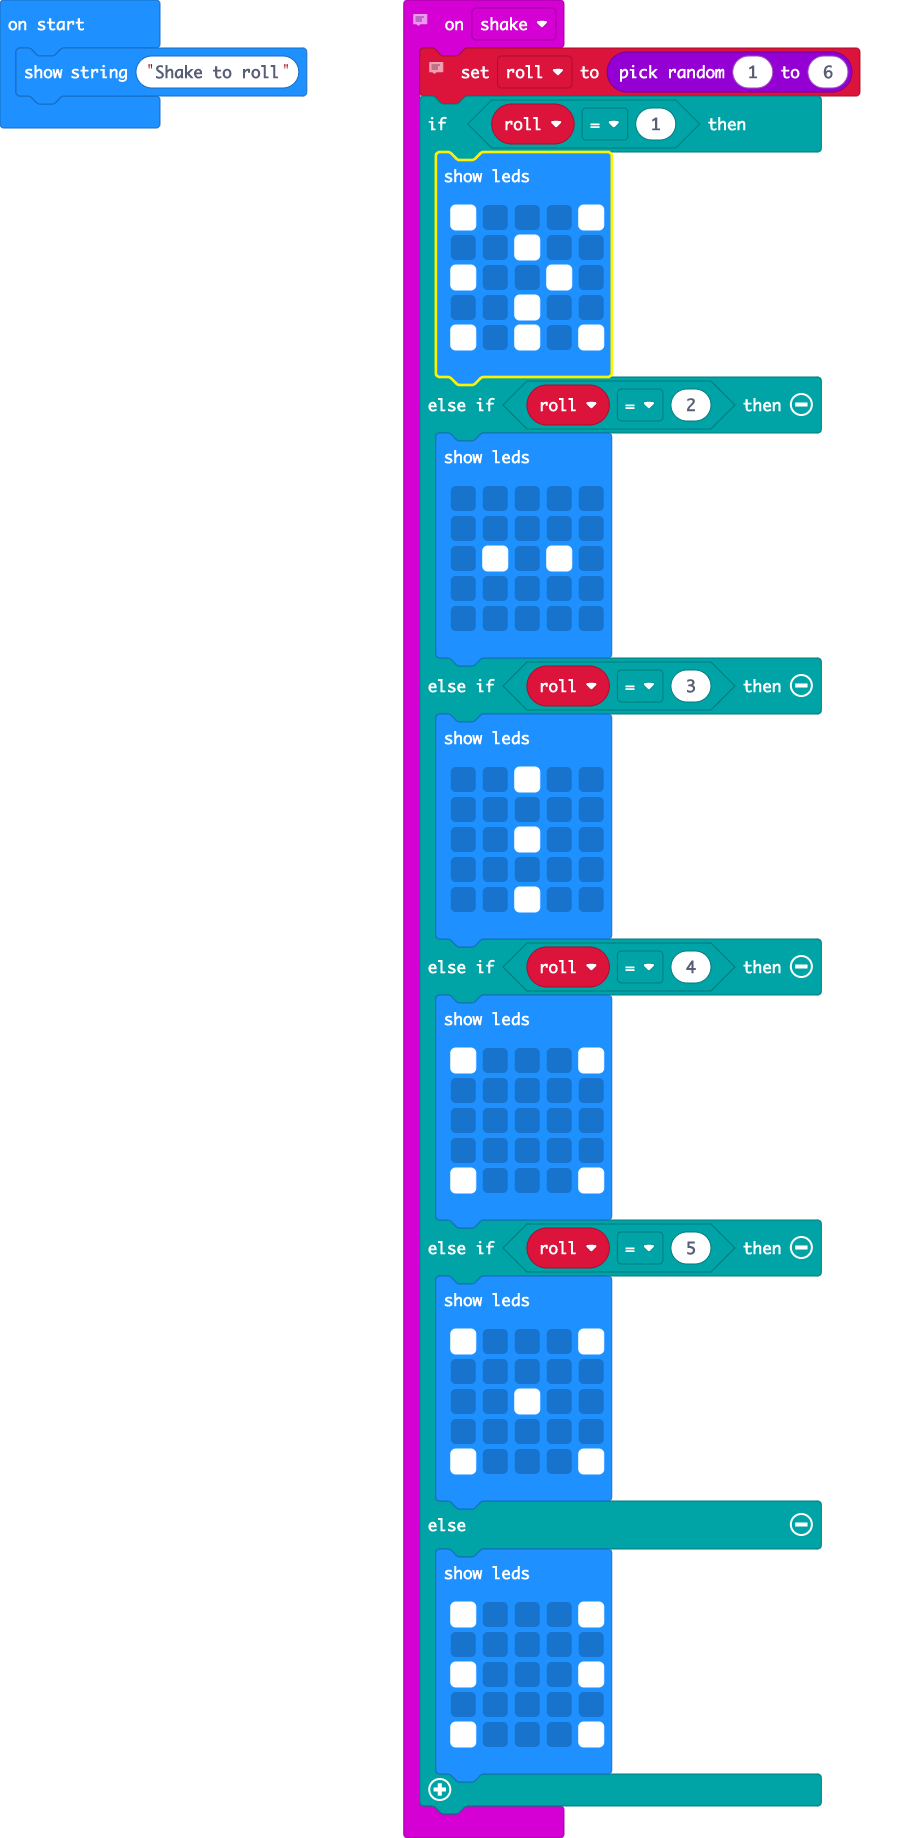
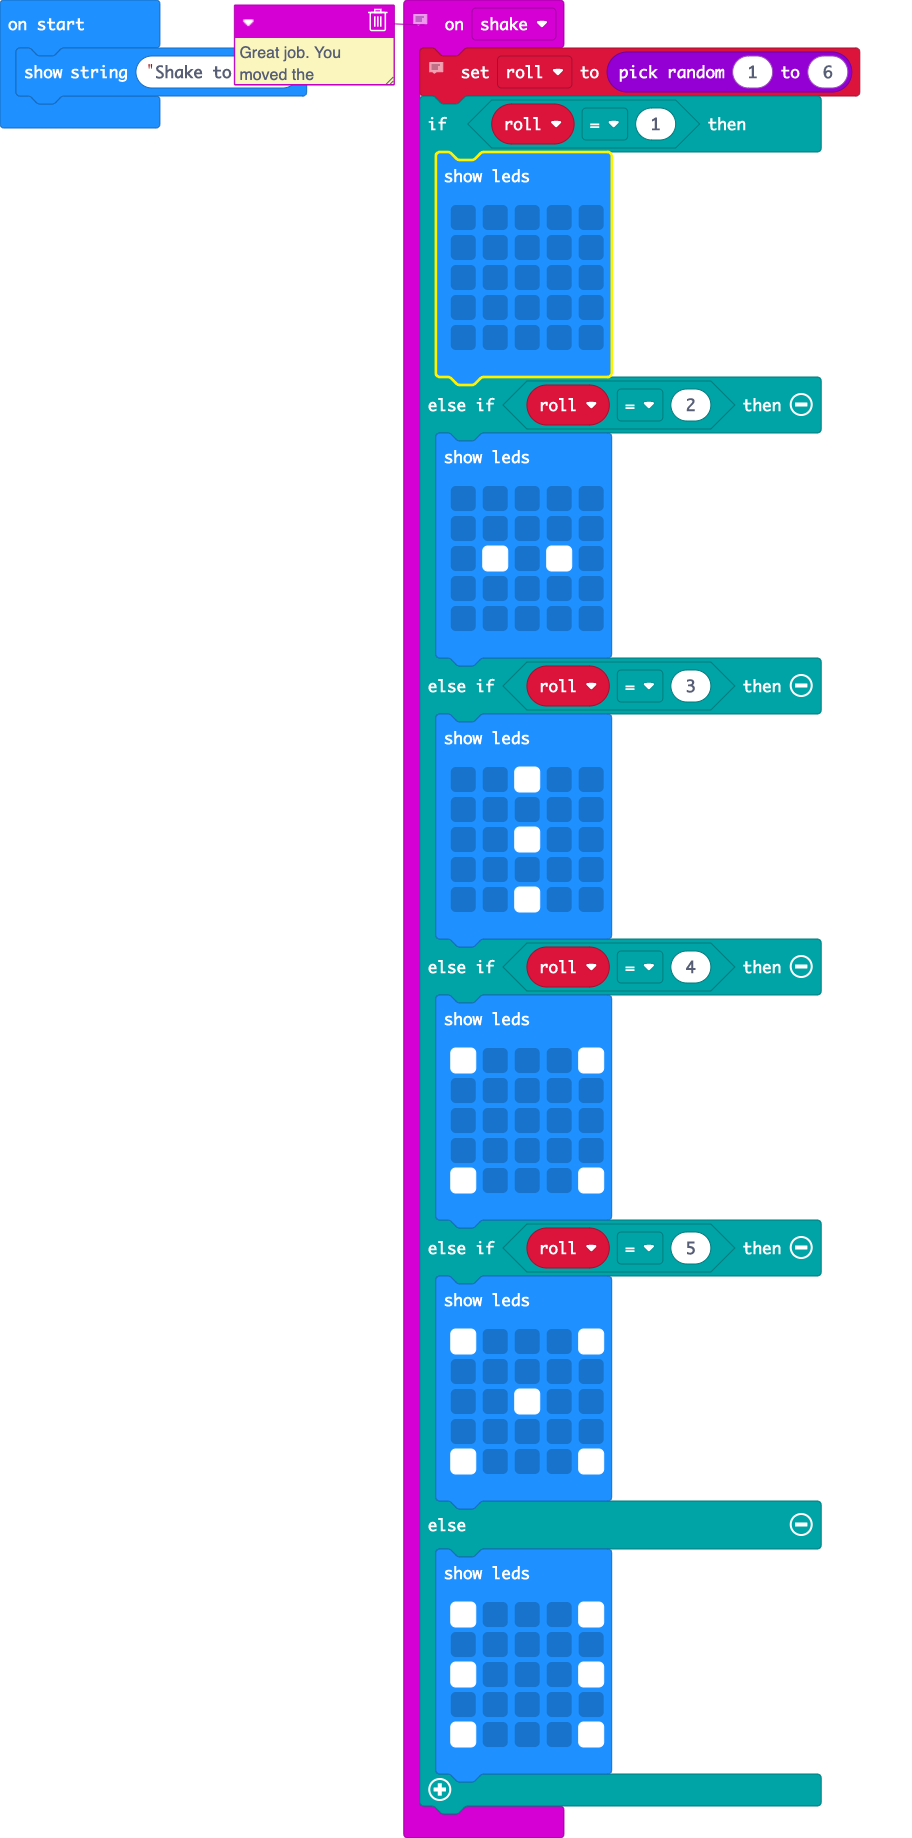
Update main.blocks, main.ts

Changed region(s): [[0.2456, 0.0, 0.4605, 0.062], [0.5526, 0.093, 0.6754, 0.1861], [0.4912, 0.093, 0.5219, 0.2171]]

diff --git a/main.ts b/main.ts
@@ -6,11 +6,11 @@ input.onGesture(Gesture.Shake, function () {
     roll = randint(1, 6)
     if (roll == 1) {
         basic.showLeds(`
-            # . . . #
-            . . # . .
-            # . . # .
-            . . # . .
-            # . # . #
+            . . . . .
+            . . . . .
+            . . . . .
+            . . . . .
+            . . . . .
             `)
     } else if (roll == 2) {
         basic.showLeds(`
